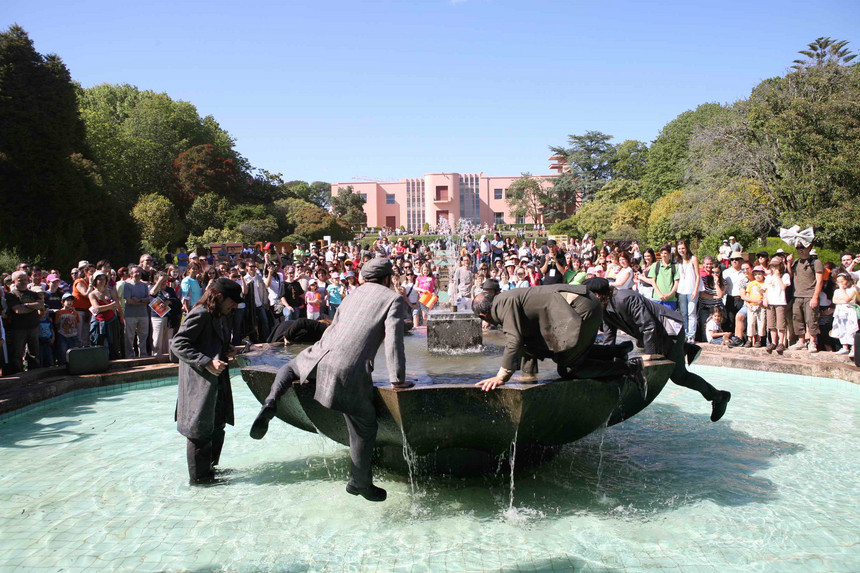
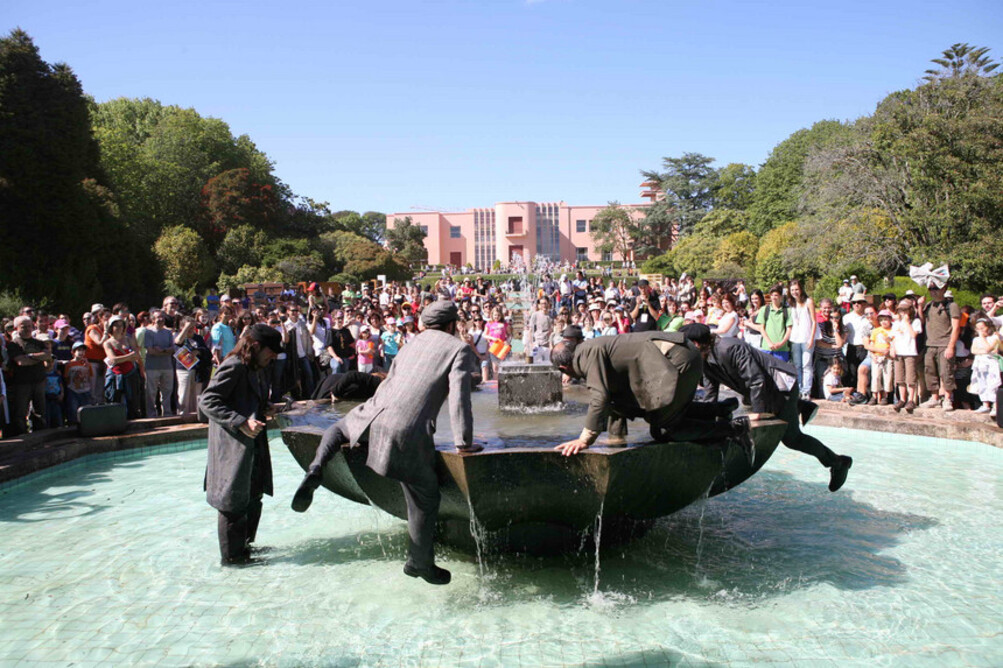
Add files via upload

diff --git a/index.html b/index.html
@@ -3,24 +3,24 @@
     <head>
         <meta charset="utf-8" />
         <meta name="viewport" content="width=device-width, initial-scale=1, shrink-to-fit=no" />
-        <meta name="description" content="" />
-        <meta name="author" content="" />
+        <meta name="description" content="Serralves em Festa" />
+        <meta name="author" content="Fundação de Serralves" />
         <title>SERRALVES</title>
         <!-- Favicon-->
         <link rel="icon" type="image/x-icon" href="assets/favicon.ico" />
-        <!-- Font Awesome icons (free version)-->
+        <!--Icons-->
         <script src="https://use.fontawesome.com/releases/v6.1.0/js/all.js" crossorigin="anonymous"></script>
-        <!-- Google fonts-->
+        <!-- Fontes -->
         <link href="https://fonts.googleapis.com/css?family=Montserrat:400,700" rel="stylesheet" type="text/css" />
         <link href="https://fonts.googleapis.com/css?family=Roboto+Slab:400,100,300,700" rel="stylesheet" type="text/css" />
     
         <link href="css/styles.css" rel="stylesheet" />
     </head>
     <body id="page-top">
-        <!-- Navigation-->
+        <!-- NavBar-->
         <nav class="navbar navbar-expand-lg navbar-dark fixed-top" id="mainNav">
             <div class="container">
-                <a class="navbar-brand" href="#page-top"><img src="assets/img/navbar-logo.jpg" alt="..." /></a>
+                <a class="navbar-brand" href="#page-top"><img src="assets/img/navbar-logo.jpg" alt="Logo" /></a>
                 <button class="navbar-toggler" type="button" data-bs-toggle="collapse" data-bs-target="#navbarResponsive" aria-controls="navbarResponsive" aria-expanded="false" aria-label="Toggle navigation">
                     Menu
                     <i class="fas fa-bars ms-1"></i>
@@ -37,9 +37,12 @@
                 </div>
             </div>
         </nav>
-        <!-- Masthead-->
+        <!--Carrossel-->
         <header class="masthead">
             <div class="container-fluid">
+                <div class="row">
+                    <div class="col-md-2"></div>
+                    <div class="col-md-8">
                 <div id="carouselExampleCaptions" class="carousel slide" data-bs-ride="carousel">
                     <div class="carousel-indicators">
                       <button type="button" data-bs-target="#carouselExampleCaptions" data-bs-slide-to="0" class="active" aria-current="true" aria-label="Slide 1"></button>
@@ -49,40 +52,45 @@
                     </div>
                     <div class="carousel-inner">
                       <div class="carousel-item active">
-                        <img src="assets/1.jpeg" class="d-block w-100" alt="serralves1" height="568px">
+                        <img src="assets/1.jpeg" class="d-block w-100" alt="serralves1" width="1004px" height="768px">
                         <div class="carousel-caption d-none d-md-block">
                             <a class=" btn-primary btn-xl text-uppercase" href="#services">Serralves em Festa</a>
                         </div>
                       </div>
                       <div class="carousel-item">
-                        <img src="assets/2.jpeg" class="d-block w-100" alt="serralves2" height="568px">
-                        <div class="carousel-caption d-none d-md-block">                    
+                        <img src="assets/2.jpeg" class="d-block w-100" alt="serralves2" height="768px">
+                        <div class="carousel-caption d-none d-md-block"> 
+                            <a class=" btn-primary btn-xl text-uppercase" href="#services">Serralves em Festa</a>                   
                         </div>
                       </div>
                       <div class="carousel-item">
-                        <img src="assets/3.jpeg" class="d-block w-100" alt="serralves3" height="568px">
+                        <img src="assets/3.jpeg" class="d-block w-100" alt="serralves3" height="768px">
                         <div class="carousel-caption d-none d-md-block">
+                            <a class=" btn-primary btn-xl text-uppercase" href="#services">Serralves em Festa</a>
                         </div>
                       </div>
                       <div class="carousel-item">
-                        <img src="assets/4.jpeg" class="d-block w-100" alt="serralves4" height="568px">
+                        <img src="assets/4.jpeg" class="d-block w-100" alt="serralves4" height="768px">
                         <div class="carousel-caption d-none d-md-block">
+                            <a class=" btn-primary btn-xl text-uppercase" href="#services">Serralves em Festa</a>
                         </div>
-                      </div>
                     </div>
                     </div>
-                    <button class="carousel-control-prev" type="button" data-bs-target="#carouselExampleCaptions" data-bs-slide="prev">
-                      <span class="carousel-control-prev-icon" aria-hidden="true"></span>
-                      <span class="visually-hidden">Previous</span>
-                    </button>
-                    <button class="carousel-control-next" type="button" data-bs-target="#carouselExampleCaptions" data-bs-slide="next">
-                      <span class="carousel-control-next-icon" aria-hidden="true"></span>
-                      <span class="visually-hidden">Next</span>
-                    </button>
+                </div>
                   </div>
+                </div>
+                <button class="carousel-control-prev" type="button" data-bs-target="#carouselExampleCaptions" data-bs-slide="prev">
+                    <span class="carousel-control-prev-icon" aria-hidden="true" aria-></span>
+                    <span class="visually-hidden">Previous</span>
+                  </button>
+                  <button class="carousel-control-next" type="button" data-bs-target="#carouselExampleCaptions" data-bs-slide="next">
+                    <span class="carousel-control-next-icon" aria-hidden="true"></span>
+                    <span class="visually-hidden">Next</span>
+                  </button>
             </div>
+                  <div class="col-md-2"></div>
         </header>
-        <!-- Services-->
+        <!-- Programação -->
         <section class="page-section" id="services">
             <div class="container">
                 <div class="text-center">
@@ -117,12 +125,11 @@
                 </div>
             </div>
         </section>
-        <!-- Portfolio Grid-->
+        <!-- Portfolio-->
         <section class="page-section bg-light" id="portfolio">
             <div class="container">
                 <div class="text-center">
                     <h2 class="section-heading text-uppercase">Portfolio</h2>
-                    <h3 class="section-subheading text-muted"></h3>
                 </div>
                 <div class="row">
                     <div class="col-lg-4 col-sm-6 mb-4">
@@ -200,7 +207,7 @@
                 </div>
             </div>
         </section>
-        <!-- About-->
+        <!-- Sobre -->
         <section class="page-section" id="about">
             <div class="container">
                 <div class="text-center">
@@ -258,120 +265,106 @@
                 </ul>
             </div>
         </section>
-        <!-- Team-->
+        <!-- Staff -->
         <section class="page-section bg-light" id="team">
             <div class="container">
                 <div class="text-center">
-                    <h2 class="section-heading text-uppercase"> NOSSO STAFF</h2>
-                    <h3 class="section-subheading text-muted">Os responsáveis por um dos melhores festivais de Portugal.</h3>
+                    <h2 class="section-heading text-uppercase"> DESENVOLVEDORES DO WEBSITE</h2>
                 </div>
                 <div class="row">
                     <div class="col-lg-4">
                         <div class="team-member">
-                            <img class="mx-auto rounded-circle" src="assets/img/team/1.jpg" alt="..." />
+                            <img class="mx-auto rounded-circle" src="assets/img/staff/mario.png" alt="Mário Pinto" />
                             <h4>Mário Pinto</h4>
-                            <p class="text-muted">Lead Designer</p>
-                            <a class="btn btn-dark btn-social mx-2" href="https://www.ufp.pt/" aria-label="Parveen Anand GitHub Profile"><i class="fab fa-github"></i></a>
-                            <a class="btn btn-dark btn-social mx-2" href="https://www.ufp.pt/" aria-label="Parveen Anand LinkedIn Profile"><i class="fab fa-linkedin-in"></i></a>
+                            <p class="text-muted">Web Developer</p>
+                            <a class="btn btn-dark btn-social mx-2" href="https://www.ufp.pt/" aria-label="Mario Pinto GitHub Profile"><i class="fab fa-github"></i></a>
+                            <a class="btn btn-dark btn-social mx-2" href="https://www.ufp.pt/" aria-label="Mario Pinto LinkedIn Profile"><i class="fab fa-linkedin-in"></i></a>
                         </div>
                     </div>
                     <div class="col-lg-4">
                         <div class="team-member">
-                            <img class="mx-auto rounded-circle" src="assets/img/team/2.jpg" alt="..." />
+                            <img class="mx-auto rounded-circle" src="assets/img/staff/gabriel.jpg" alt="Gabriel Pinho" />
                             <h4>Gabriel Pinho</h4>
-                            <p class="text-muted">Lead Marketer</p>
-                            <a class="btn btn-dark btn-social mx-2" href="https://www.ufp.pt/" aria-label="Diana Petersen GitHub Profile"><i class="fab fa-github"></i></a>
-                            <a class="btn btn-dark btn-social mx-2" href="https://www.ufp.pt/" aria-label="Diana Petersen LinkedIn Profile"><i class="fab fa-linkedin-in"></i></a>
+                            <p class="text-muted">Web Developer</p>
+                            <a class="btn btn-dark btn-social mx-2" href="https://github.com/gabixgo" aria-label="Gabriel Ferreira GitHub Profile"><i class="fab fa-github"></i></a>
+                            <a class="btn btn-dark btn-social mx-2" href="https://www.linkedin.com/in/gabriel-ferreira-54376a250/" aria-label="Gabriel Ferreira LinkedIn Profile"><i class="fab fa-linkedin-in"></i></a>
                         </div>
                     </div>
                     <div class="col-lg-4">
                         <div class="team-member">
                             <img class="mx-auto rounded-circle" src="assets/img/staff/patrick.jpeg" alt="patrick" />
                             <h4>Patrick Novato</h4>
-                            <p class="text-muted">Lead Developer</p>
-                            <a class="btn btn-dark btn-social mx-2" href="https://www.ufp.pt/" aria-label="Larry Parker GitHub Profile"><i class="fab fa-github"></i></a>
-                            <a class="btn btn-dark btn-social mx-2" href="https://www.ufp.pt/" aria-label="Larry Parker LinkedIn Profile"><i class="fab fa-linkedin-in"></i></a>
+                            <p class="text-muted">Web Developer</p>
+                            <a class="btn btn-dark btn-social mx-2" href="https://www.ufp.pt/" aria-label="Patrick Novato Profile"><i class="fab fa-github"></i></a>
+                            <a class="btn btn-dark btn-social mx-2" href="https://www.ufp.pt/" aria-label="Patrick Novato LinkedIn Profile"><i class="fab fa-linkedin-in"></i></a>
                         </div>
                     </div>
                 </div>
             </div>
         </section>
-        <!-- Form-->
+        <!-- Formulário -->
         <section class="page-section" id="contact">
             <div class="container">
                 <div class="text-center">
                     <h2 class="section-heading text-uppercase">Formulário</h2>
-                    <h3 class="section-subheading text-muted"> Se você é artista, fotófrafo ou quer ser um voluntário, insira aqui seus dados para se inscrever no nosso festival.</h3>
+                    <h3 class="section-subheading text-muted"> Se você é artista, fotógrafo ou quer ser um voluntário, insira aqui seus dados para se inscrever no nosso festival.</h3>
                 </div>
-                <!-- * * * * * * * * * * * * * * *-->
-                <!-- * * SB Forms Contact Form * *-->
-                <!-- * * * * * * * * * * * * * * *-->
-                <!-- This form is pre-integrated with SB Forms.-->
-                <!-- To make this form functional, sign up at-->
-                <!-- https://startbootstrap.com/solution/contact-forms-->
-                <!-- to get an API token!-->
                 <form id="contactForm" data-sb-form-api-token="API_TOKEN">
                     <div class="row align-items-stretch mb-5">
                         <div class="col-md-6">
                             <div class="form-group">
-                                <!-- Name input-->
+                                <!-- Nome input-->
                                 <input class="form-control" id="name" type="text" placeholder="Nome *" data-sb-validations="required" />
-                                <div class="invalid-feedback" data-sb-feedback="name:required">Insira o seu nome.</div>
+                                <div class="invalid-feedback" data-sb-feedback="name:required">Insira seu nome.</div>
                             </div>
                             <div class="form-group">
-                                <!-- Email address input-->
+                                <!-- Email input-->
                                 <input class="form-control" id="email" type="email" placeholder="Email *" data-sb-validations="required,email" />
-                                <div class="invalid-feedback" data-sb-feedback="email:required">Insira o seu email.</div>
+                                <div class="invalid-feedback" data-sb-feedback="email:required">Insira seu email.</div>
                                 <div class="invalid-feedback" data-sb-feedback="email:email">Email não é válido.</div>
                             </div>
                             <div class="form-group mb-md-0">
-                                <!-- Phone number input-->
+                                <!-- Telefone input-->
                                 <input class="form-control" id="phone" type="tel" placeholder="Telemovel *" data-sb-validations="required" />
-                                <div class="invalid-feedback" data-sb-feedback="phone:required">Insira o seu número de Telemovel.</div>
+                                <div class="invalid-feedback" data-sb-feedback="phone:required">Insira seu número de Telemóvel.</div>
                             </div>
                         </div>
                         <div class="col-md-6">
                             <div class="form-group">
                                 <!-- CC input-->
                                 <input class="form-control" id="cc" placeholder="CC/BI/PASSAPORTE *" data-sb-validations="required">
-                                <div class="invalid-feedback" data-sb-feedback="id:required">Insira a sua identificação.</div>
+                                <div class="invalid-feedback" data-sb-feedback="cc:required">Insira sua identificação.</div>
                             </div>
                             <div class="form-group">
                                 <!-- Nascimento input-->
                                 <input class="form-control" id="nascimento" placeholder="Data de nascimento DD/MM/AAAA *" data-sb-validations="required">
-                                <div class="invalid-feedback" data-sb-feedback="nascimento:required">Insira a sua data de nascimento.</div>
+                                <div class="invalid-feedback" data-sb-feedback="nascimento:required">Insira sua data de nascimento.</div>
                             </div>
                             <div class="form-group mb-md-0">
-                                <!-- Message input-->
+                                <!-- Mensagem input-->
                                 <input class="form-control" id="ingresso" placeholder="Tipo de ingresso Visitante/Voluntário *" data-sb-validations="required">
                                 <div class="invalid-feedback" data-sb-feedback="ingresso:required">Tipo de ingresso necessário.</div>
                             </div>
                         </div>
                     </div>
-                    <!-- Submit success message-->
-                    <!---->
-                    <!-- This is what your users will see when the form--s>
-                    <!-- has successfully submitted-->
+                    <!-- Submeter mensagem de sucesso-->
                     <div class="d-none" id="submitSuccessMessage">
                         <div class="text-center text-white mb-3">
                             <div class="fw-bolder">Formulário Submetido com sucesso!</div>
-                            Aguardamos a sua presença!!
-                            Para mais informações contacte o nosso e-mail
+                            Aguardamos ansiosamente a sua presença!
+                            Para mais informações contacte o nosso e-mail.
                             <br />
                             <a href="festaserralves@cms.pt">festaserralves@cms.pt</a>
                         </div>
                     </div>
-                    <!-- Submit error message-->
-                    <!---->
-                    <!-- This is what your users will see when there is-->
-                    <!-- an error submitting the form-->
+                    <!-- Submeter erro na mensagem-->
                     <div class="d-none" id="submitErrorMessage"><div class="text-center text-danger mb-3">Erro de submissão!</div></div>
-                    <!-- Submit Button-->
+                    <!-- Botão Submeter-->
                     <div class="text-center"><button class="btn btn-primary btn-xl text-uppercase disabled" id="submitButton" type="submit">Submeter Formulário</button></div>
                 </form>
             </div>
         </section>
-        <!-- Footer-->
+        <!-- Rodapé -->
         <footer class="footer py-4">
             <div class="container">
                 <div class="row align-items-center">
@@ -389,12 +382,8 @@
         
         <!-- Bootstrap core JS-->
         <script src="https://cdn.jsdelivr.net/npm/bootstrap@5.1.3/dist/js/bootstrap.bundle.min.js"></script>
-        <!-- Core theme JS-->
+        <!-- Core ema JS-->
         <script src="js/scripts.js"></script>
-        <!-- * * * * * * * * * * * * * * * * * * * * * * * * * * * * * * * * * * * * * * * *-->
-        <!-- * *                               SB Forms JS                               * *-->
-        <!-- * * Activate your form at https://startbootstrap.com/solution/contact-forms * *-->
-        <!-- * * * * * * * * * * * * * * * * * * * * * * * * * * * * * * * * * * * * * * * *-->
         <script src="https://cdn.startbootstrap.com/sb-forms-latest.js"></script>
     </body>
 </html>

diff --git a/css/styles - Copy.css b/css/styles - Copy.css
@@ -11765,8 +11765,3 @@ section#contact form#contactForm :-ms-input-placeholder {
   font-family: "Montserrat", -apple-system, BlinkMacSystemFont, "Segoe UI", Roboto, "Helvetica Neue", Arial, sans-serif, "Apple Color Emoji", "Segoe UI Emoji", "Segoe UI Symbol", "Noto Color Emoji";
 }
 
-
-.carousel-indicators li {
-  position: absolute;
-  left: 20px;
-}
